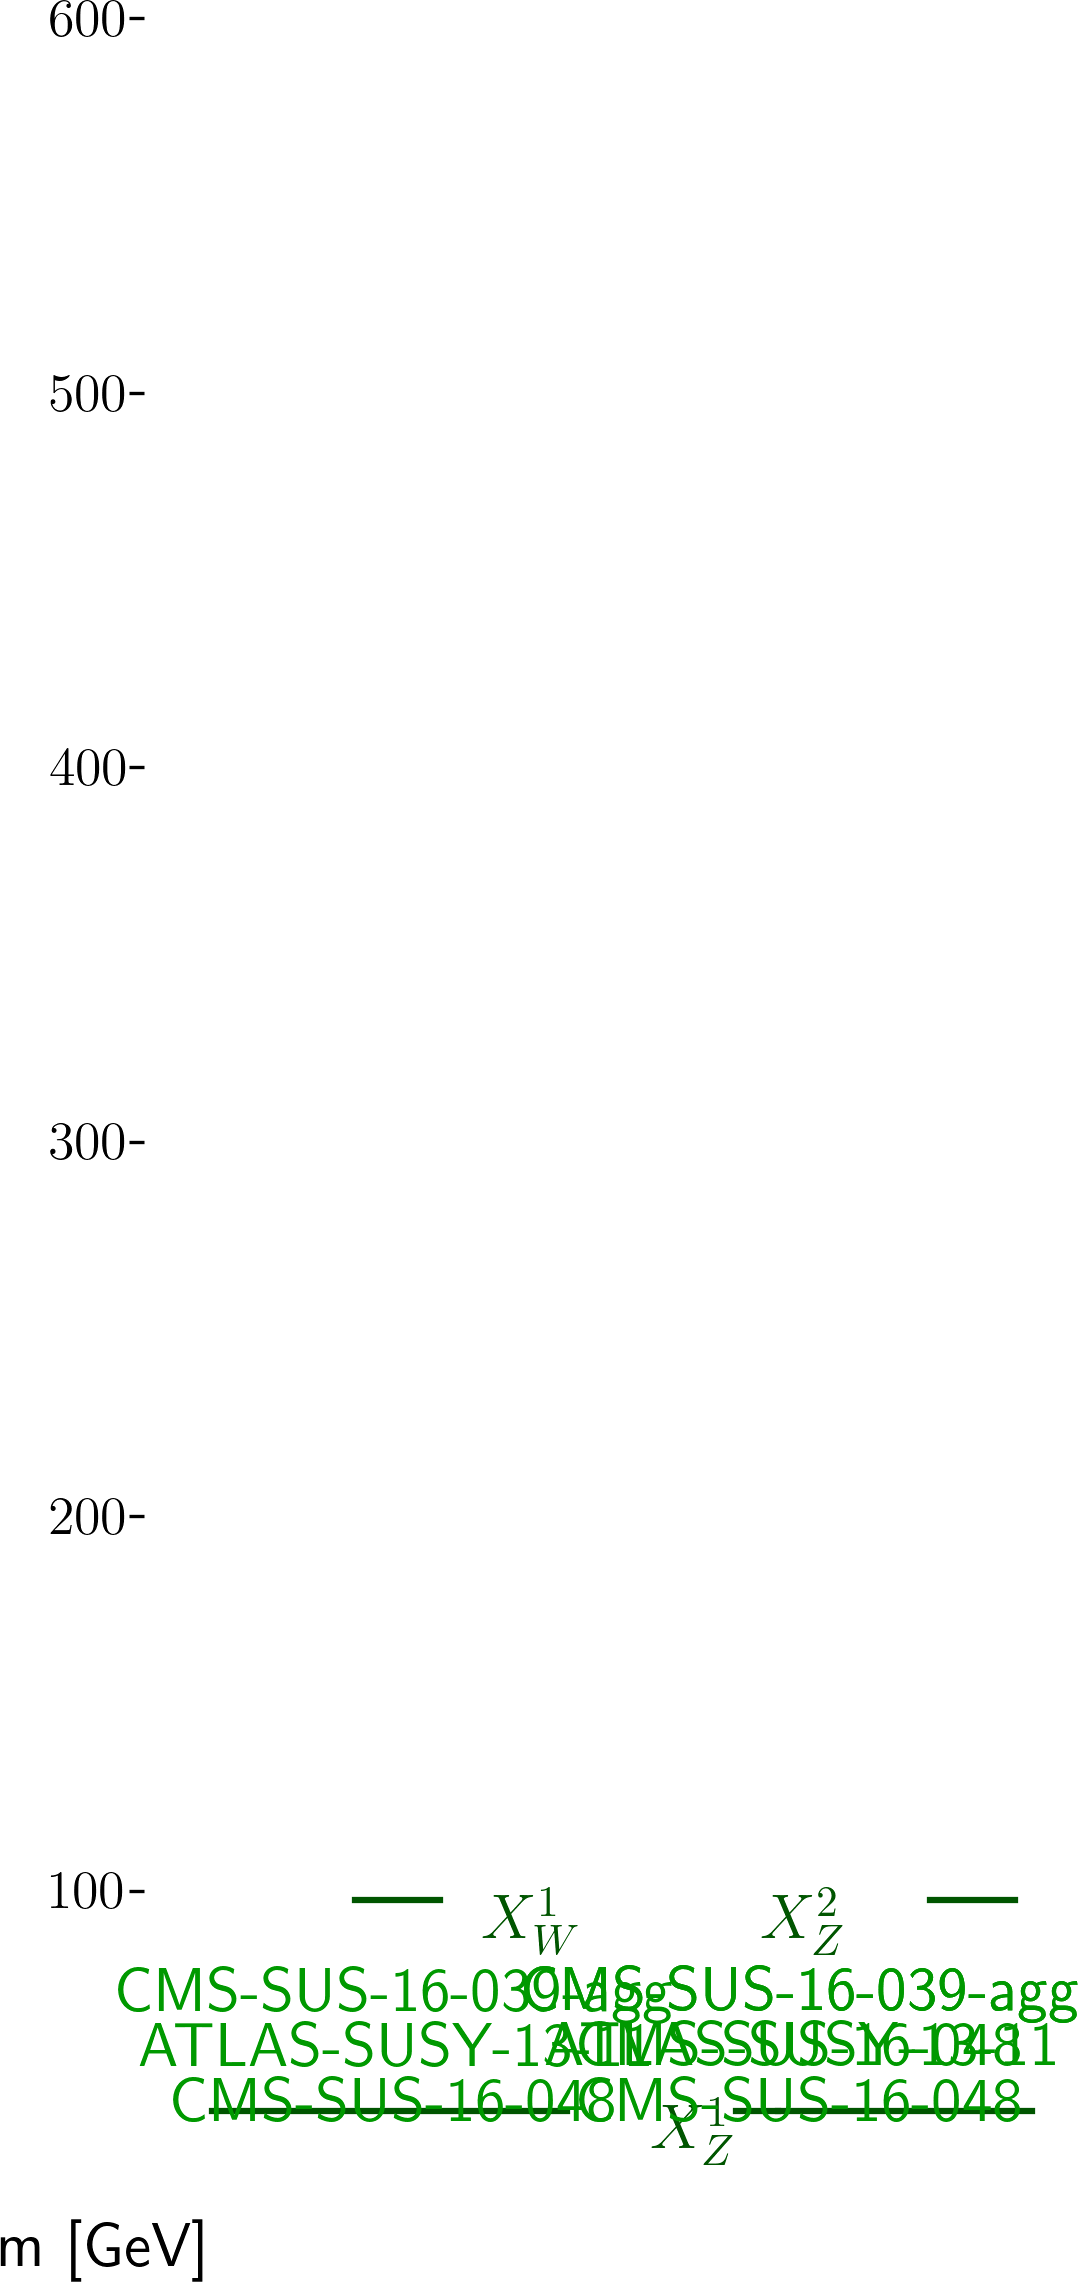
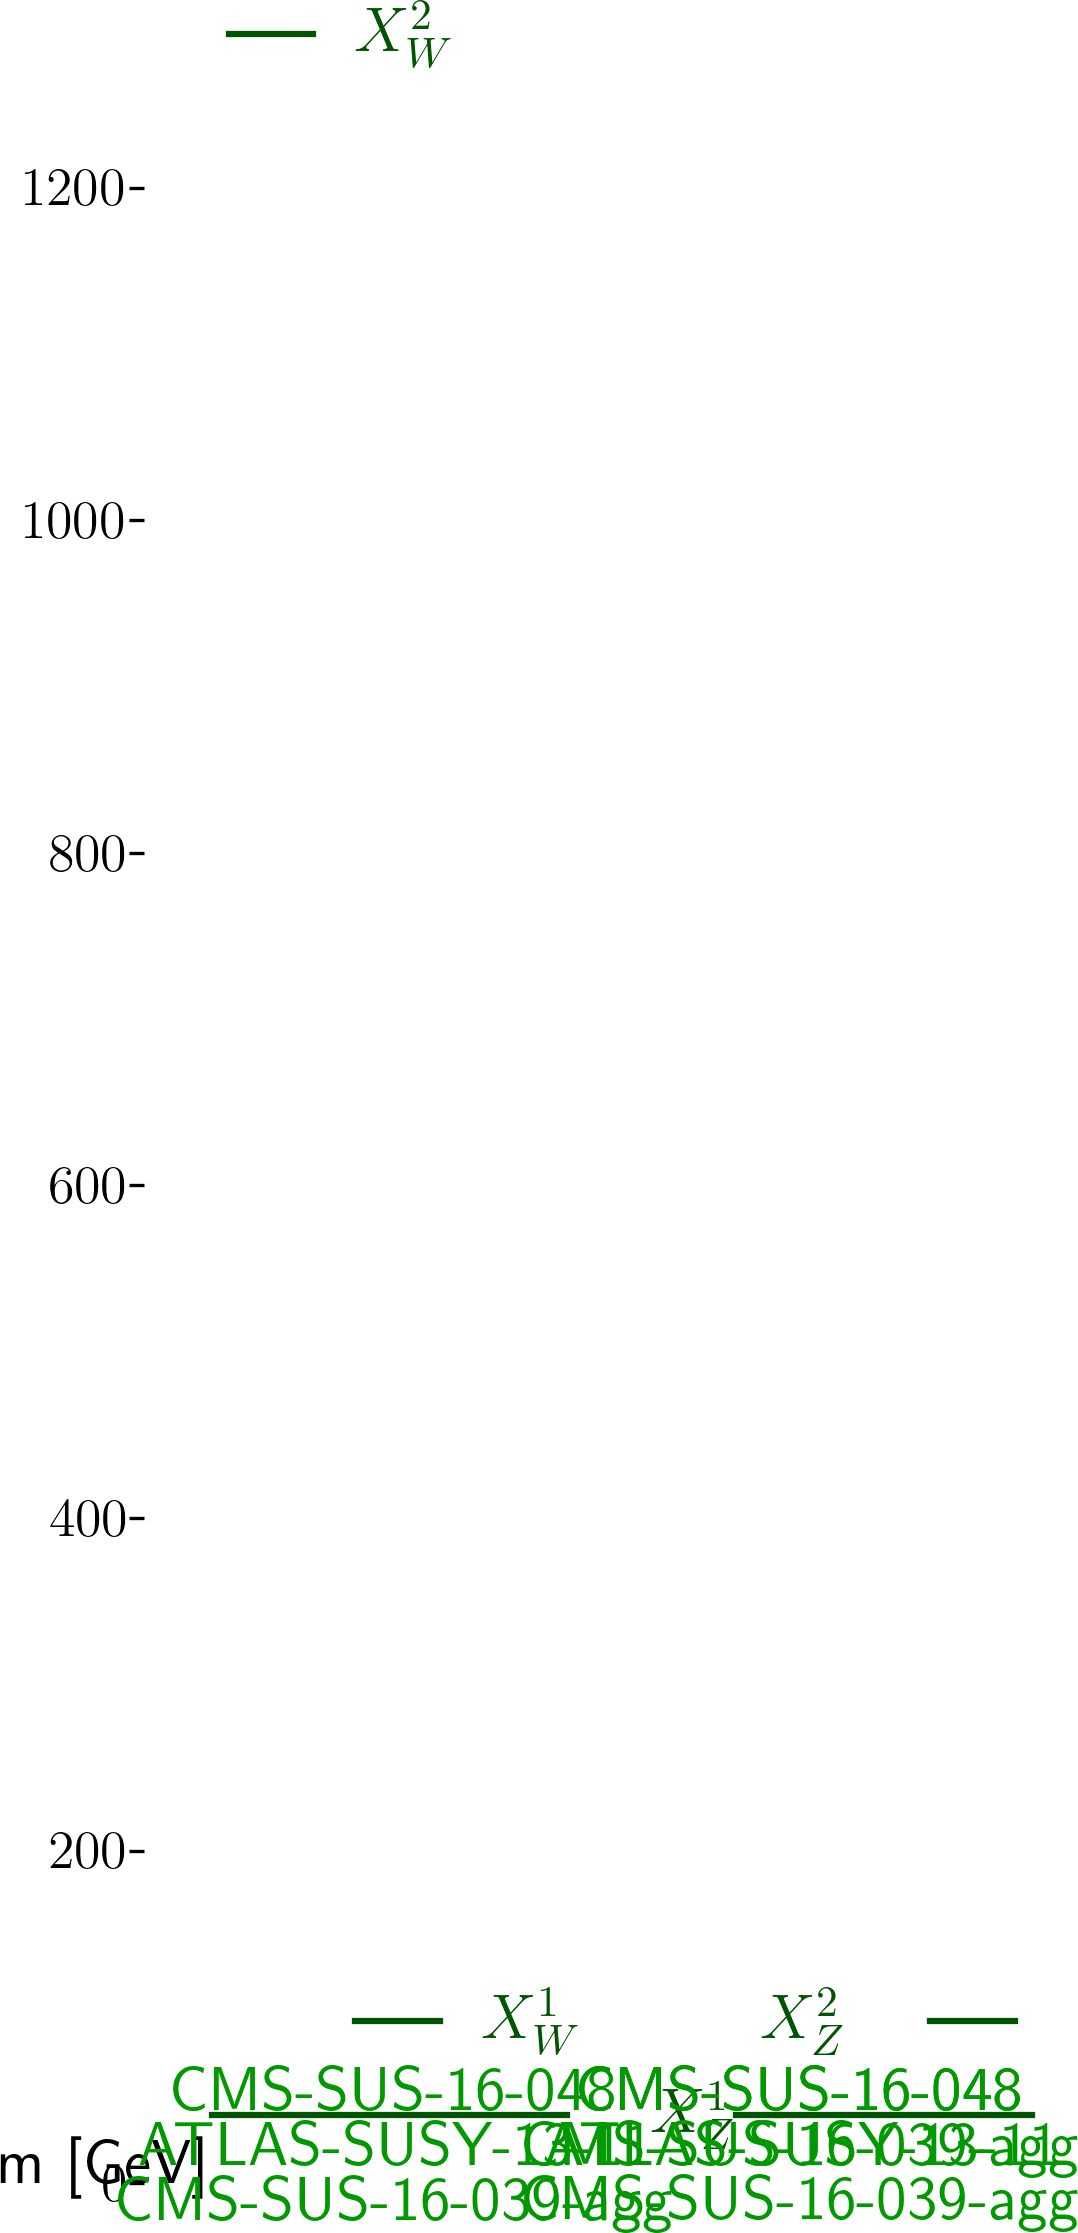
automated update by plotHiscore.py to ewkinos_230:     K=5.551 Z=3.23 walkerid=126

diff --git a/protomodels/ewkinos_230/index.html b/protomodels/ewkinos_230/index.html
@@ -1,21 +1,21 @@
 <html>
 <body>
 <center>
-<table><td><h1>Current best protomodel: <i>K</i>=6.57, <i>Z</i>=3.23</h1><td><img height=60px src=https://smodels.github.io//protomodels/logos/protomodel_lego.png></table>
+<table><td><h1>Current best protomodel: <i>K</i>=5.55, <i>Z</i>=3.23</h1><td><img height=60px src=https://smodels.github.io//protomodels/logos/protomodel_lego.png></table>
 </center>
-<b><a href=./hiscore.slha>ProtoModel</a> <a href=./pmodel.dict>(dict)</a> produced with <a href=https://smodels.github.io//docs/Validation230>database v2.3.0</a>, combination strategy <a href=./matrix.png>aggressive</a> in walker 126 step 280.</b>  SSM plots for: <br>
+<b><a href=./hiscore.slha>ProtoModel</a> <a href=./pmodel.dict>(dict)</a> produced with <a href=https://smodels.github.io//docs/Validation230>database v2.3.0</a>, combination strategy <a href=./matrix.png>aggressive</a> in walker 126 step 437.</b>  SSM plots for: <br>
 <table width=80%>
 <tr><td>
 <br><b>3 predictions available. Highest r values are:</b><br><ul>
-<li><a href=http://cms-results.web.cern.ch/cms-results/public-results/publications/SUS-16-048/index.html>CMS-SUS-16-048</a>:comb:TChiWZoff r=0.65, r<sub>exp</sub>=1.45<br>
+<li><a href=http://cms-results.web.cern.ch/cms-results/public-results/publications/SUS-16-048/index.html>CMS-SUS-16-048</a>:comb:TChiWZoff r=0.64, r<sub>exp</sub>=1.44<br>
 <li><a href=http://cms-results.web.cern.ch/cms-results/public-results/publications/SUS-16-039/index.html>CMS-SUS-16-039-agg</a>:comb:TChiWZoff r=0.34, r<sub>exp</sub>=0.72<br>
 <li><a href=https://atlas.web.cern.ch/Atlas/GROUPS/PHYSICS/PAPERS/SUSY-2013-11/>ATLAS-SUSY-2013-11</a>:em:TChiWWoff r=0.01, r<sub>exp</sub>=0.01<br>
 </ul>
-<td><img width=600px src=./texdoc.png?1706806405>
-<br><font size=-1>Last updated: Thu Feb  1 17:53:25 2024</font>
+<td><img width=600px src=./texdoc.png?1706865101>
+<br><font size=-1>Last updated: Fri Feb  2 10:11:41 2024</font>
 </table><table style="width:80%">
-<td width=45%><img height=580px src=./ruler.png?1706806405><td width=55%><img height=340px src=./decays.png?1706806405>
-<font size=-3><iframe type="text/html" height="270px" width="100%s" frameborder="0" src="./rawnumbers.html?1706806405"></iframe></font>
+<td width=45%><img height=580px src=./ruler.png?1706865101><td width=55%><img height=340px src=./decays.png?1706865101>
+<font size=-3><iframe type="text/html" height="270px" width="100%s" frameborder="0" src="./rawnumbers.html?1706865101"></iframe></font>
 </table>
 </body>
 </html>
